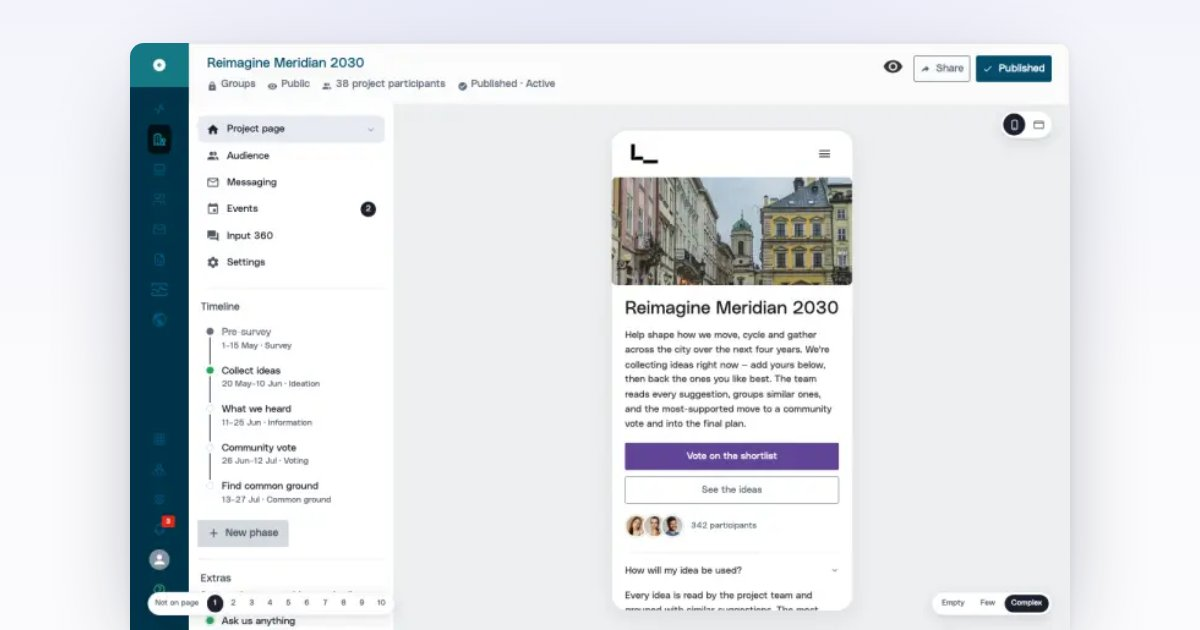
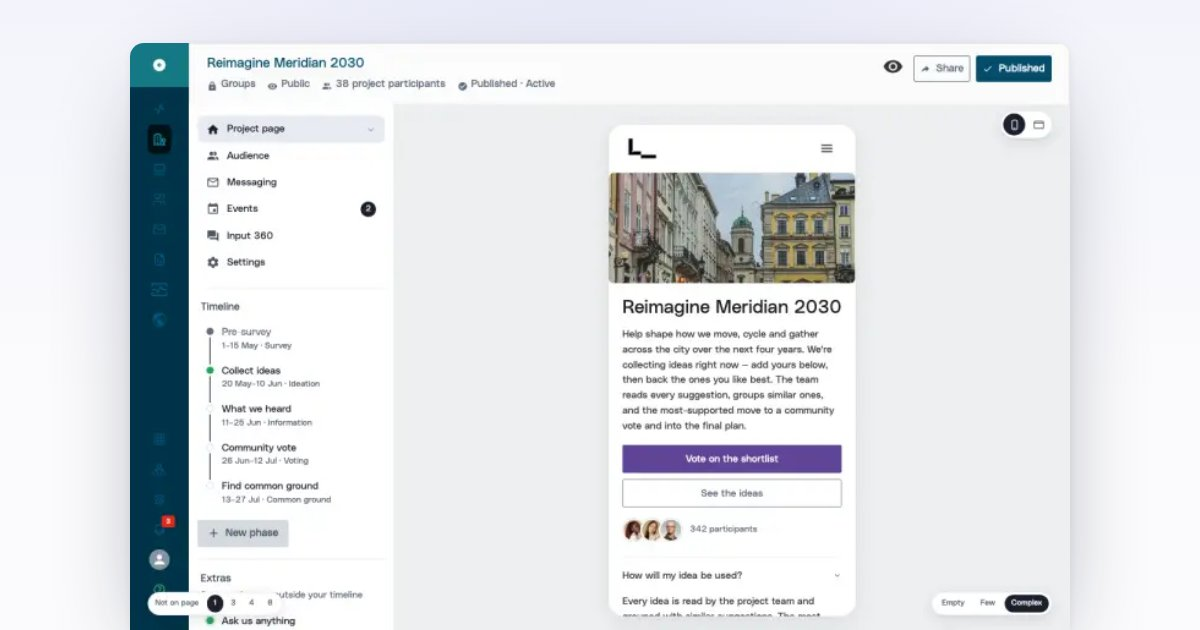
editor-builder-v2: make the Window frame a true desktop project page
The desktop (Window) preview read as tablet: it kept mobile chrome (hamburger
nav, a single ~860px column) at a 1280 logical viewport. Now the Window frame
renders a genuine desktop layout — full desktop nav + header actions, full-bleed
hero, and the participation box pulled out as a sticky right-hand rail (the
signature desktop GoVocal project page); the grey method band stays one centred
column. Sized to a real 1440x900 desktop viewport, scaled down to fill the canvas
(tighter margins so the artboard is as large as the stage allows). Phone frame
unchanged.

Changed region(s): [[0.4933, 0.2111, 0.74, 0.9952], [0.2158, 0.9349, 0.3083, 0.9651], [0.6783, 0.2111, 0.7092, 0.2413]]

diff --git a/parallel-participation/prototypes/parallel-editor-builder-v2/index.html b/parallel-participation/prototypes/parallel-editor-builder-v2/index.html
@@ -84,8 +84,13 @@
      full-screen menu overlay to the phone. Real sizes (scaled by .pp-screen). Header
      static so the absolute menu panel resolves against the phone. */
   .phone .pp-phone-header { position: static; box-shadow: none; border-bottom: 1px solid var(--gv-grey-200); }
-  .phone .gv-nav { display: none !important; }            /* desktop nav off inside the phone */
-  .phone .gv-nav-m { display: block !important; }          /* hamburger on */
+  /* Chrome follows the frame: PHONE = mobile (hamburger), WINDOW = desktop (full nav +
+     header actions). Scoped to the frame class so swapping frames swaps the navbar. */
+  .phone.frame-phone .gv-nav, .phone.frame-phone .pp-fo__deskactions { display: none !important; }
+  .phone.frame-phone .gv-nav-m { display: block !important; }   /* hamburger on */
+  .phone.frame-window .gv-nav-m { display: none !important; }    /* hamburger off */
+  .phone.frame-window .gv-nav { display: flex !important; }      /* desktop nav on */
+  .phone.frame-window .pp-fo__deskactions { display: flex !important; align-items: center; gap: 10px; }
   .phone .gv-nav-m__panel { position: absolute; }          /* inset:0 → fills the phone, not the viewport */
 
   /* ── Phone FO project page — REAL components; only LAYOUT here, no type-size hacks ── */
@@ -162,17 +167,34 @@
      prototype only carries the mobile FO markup; a true two-column desktop page with
      a participate rail would be a separate build. */
   .phone.frame-window {
-    width: 820px; height: 560px; border-radius: 16px;
-    --pz: 0.62;
+    width: 1180px; height: 720px; border-radius: 16px;
+    --pz: 0.82;
   }
   .frame-window .pp-screen { background: #fff; }
-  /* hero spans the full window; everything else sits in a centred desktop column */
+
+  /* DESKTOP project page: full-bleed hero, then a centred desktop measure. The top
+     context block becomes the real two-column project layout — main content on the
+     left, the participation box pinned as a right-hand rail (the signature desktop
+     GoVocal project page). The grey method band below stays one centred column. */
   .frame-window .pp-fo__banner { height: 300px; }
-  .frame-window .pp-fo__pad { max-width: 860px; margin: 0 auto; padding: 34px 40px 0; }
-  .frame-window .gv-partbar__inner { max-width: 860px; }
-  /* desktop participation box: CTAs go side-by-side and size to content, not full-bleed */
-  .frame-window .pp-fo__cta { flex-direction: row; flex-wrap: wrap; gap: 12px; }
-  .frame-window .pp-fo__cta .gv-btn { width: auto; }
+  .frame-window .pp-fo__pad { max-width: 1120px; margin: 0 auto; padding: 36px 40px 0; }
+  .frame-window .gv-partbar__inner { max-width: 1120px; margin: 0 auto; }
+
+  /* Top block → two columns: content (1fr) · participation rail (340px). */
+  .frame-window .pp-fo__pad:not(.pp-fo__pad--grey) {
+    display: grid; grid-template-columns: minmax(0,1fr) 340px; column-gap: 48px; align-items: start;
+  }
+  .frame-window .pp-fo__pad:not(.pp-fo__pad--grey) > [data-edit="title"],
+  .frame-window .pp-fo__pad:not(.pp-fo__pad--grey) > [data-edit="text"],
+  .frame-window .pp-fo__pad:not(.pp-fo__pad--grey) > [data-edit="info-accordions"] { grid-column: 1; }
+  /* Participation box = sticky white rail card; CTAs stacked full-width as on the real page. */
+  .frame-window .pp-fo__pbox {
+    grid-column: 2; grid-row: 1 / span 50; align-self: start; position: sticky; top: 16px;
+    margin: 0; padding: 20px; background: #fff; border: 1px solid var(--gv-grey-200);
+    border-radius: var(--gv-radius); box-shadow: 0 2px 4px -1px rgba(0,0,0,.06);
+  }
+  .frame-window .pp-fo__cta { flex-direction: column; gap: 10px; margin: 0 0 14px; }
+  .frame-window .pp-fo__cta .gv-btn { width: 100%; justify-content: center; }
   .frame-window .pp-phone-header { border-bottom: 1px solid var(--gv-grey-200); }
 
   .rail-btn { display:flex; align-items:center; justify-content:center; width:40px; height:40px; border-radius:10px; color: rgba(255,255,255,.55); }
@@ -2096,7 +2118,21 @@
           <header class="gv-header pp-phone-header" onclick="event.stopPropagation()">
             <div class="gv-header__inner">
               <a class="gv-brand" href="#" data-gv-logo aria-label="City home"></a>
+              <!-- Desktop nav — shown only in the WINDOW (desktop) frame; hidden in phone. -->
+              <nav class="gv-nav" aria-label="Primary">
+                <ul class="gv-nav__list">
+                  <li><a class="gv-nav__link" href="#">Home</a></li>
+                  <li><a class="gv-nav__link" href="#">Projects</a></li>
+                  <li><a class="gv-nav__link" aria-current="page" href="#">This project</a></li>
+                  <li><a class="gv-nav__link" href="#">Events</a></li>
+                  <li><a class="gv-nav__link" href="#">About</a></li>
+                </ul>
+              </nav>
               <span style="flex:1 1 auto"></span>
+              <div class="gv-header__actions pp-fo__deskactions">
+                <button class="gv-iconbtn" aria-label="Search"><span data-gv-icon="search"></span></button>
+                <a class="gv-btn primary" href="#"><span class="gv-btn__label">Log in</span></a>
+              </div>
               <details class="gv-nav-m">
                 <summary aria-label="Show navigation menu">
                   <svg class="gv-nav-m__bars" width="24" height="24" viewBox="0 0 24 24" fill="currentColor" aria-hidden="true"><path d="M3,6H21V8H3V6M3,11H21V13H3V11M3,16H21V18H3V16Z"/></svg>
@@ -3907,7 +3943,10 @@
   // allows while keeping its true layout and aspect — and it re-fits on resize.
   const FRAME_LOGICAL = {
     phone:  { w: 400,  h: 800, border: 1.5 },
-    window: { w: 1280, h: 760, border: 1.5 },
+    // Window = a real desktop viewport (1440×900). fitPreview scales it down to the
+    // canvas, so the preview reads at full desktop width — crossing the desktop
+    // layout, not the in-between tablet measure — just drawn smaller.
+    window: { w: 1440, h: 900, border: 1.5 },
   };
   function fitPreview() {
     const phone = document.getElementById('phone');
@@ -3916,7 +3955,7 @@
     if (!stage.clientWidth || !stage.clientHeight) return;   // hidden → skip
     const key = phone.classList.contains('frame-window') ? 'window' : 'phone';
     const L = FRAME_LOGICAL[key];
-    const MARGIN_X = 48, MARGIN_Y = 32;                      // breathing room
+    const MARGIN_X = 28, MARGIN_Y = 24;                      // breathing room (tight — frame as large as the canvas allows)
     const availW = Math.max(160, stage.clientWidth  - MARGIN_X * 2);
     const availH = Math.max(160, stage.clientHeight - MARGIN_Y * 2);
     const scale = Math.min(availW / L.w, availH / L.h, 1);   // fit, never upscale
